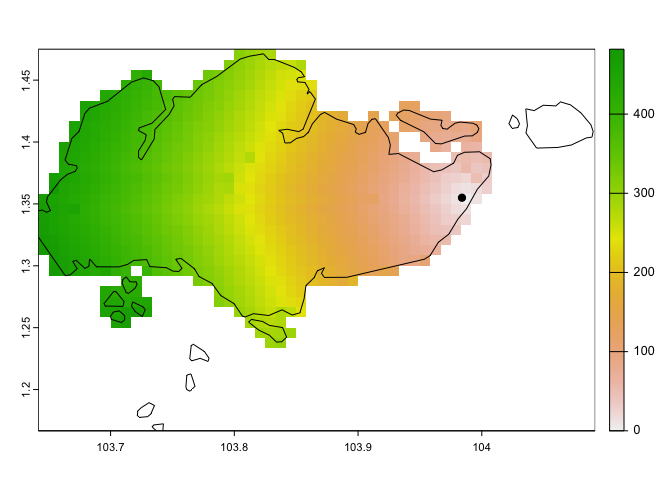
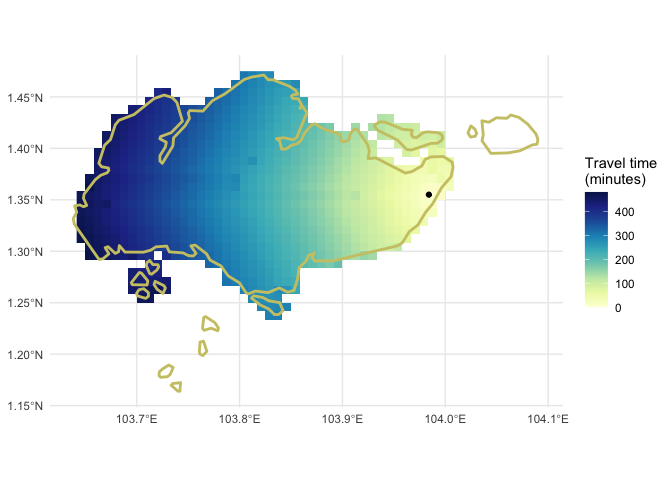
add nicer plot and resolve #21

diff --git a/README.md b/README.md
@@ -131,7 +131,7 @@ Et voila!
 
 ``` r
 plot(travel_time)
-points(from_here, pch = 19, add = TRUE)
+points(from_here, pch = 19)
 ```
 
 <img src="man/figures/README-unnamed-chunk-6-1.png" width="100%" />
@@ -210,7 +210,7 @@ Let’s look at those.
 ``` r
 plot(friction_singapore)
 plot(sin, add = TRUE)
-points(changi_airport, pch = 19, add = TRUE)
+points(changi_airport, pch = 19)
 ```
 
 <img src="man/figures/README-unnamed-chunk-10-1.png" width="100%" />
@@ -238,8 +238,46 @@ Et voi*lah*!
 
 ``` r
 plot(travel_time_sin)
-points(changi_airport, pch = 19, add = TRUE)
+points(changi_airport, pch = 19)
 plot(sin, add = TRUE)
 ```
 
 <img src="man/figures/README-unnamed-chunk-12-1.png" width="100%" />
+
+### I want my plots to be nicer
+
+``` r
+library(tidyterra)
+#> Registered S3 method overwritten by 'tidyterra':
+#>   method              from        
+#>   autoplot.SpatRaster malariaAtlas
+#> 
+#> Attaching package: 'tidyterra'
+#> The following object is masked from 'package:stats':
+#> 
+#>     filter
+library(ggplot2)
+
+ggplot() +
+  # plot the spatraster first
+  geom_spatraster(
+    data = travel_time_sin
+  ) +
+  theme_minimal() +
+  scale_fill_whitebox_c(palette = "deep") +
+  # overlay the vector outline
+  geom_spatvector(
+    data = sin,
+    colour = "khaki3",
+    linewidth = 1,
+    fill = NA
+  ) +
+  # add the points from tibble
+   geom_point(
+     data = changi_airport,
+     aes(x = x, y = y)
+   ) +
+  labs(x = NULL, y = NULL, fill = "Travel time\n(minutes)") 
+```
+
+<img src="man/figures/README-unnamed-chunk-13-1.png" width="100%" />
